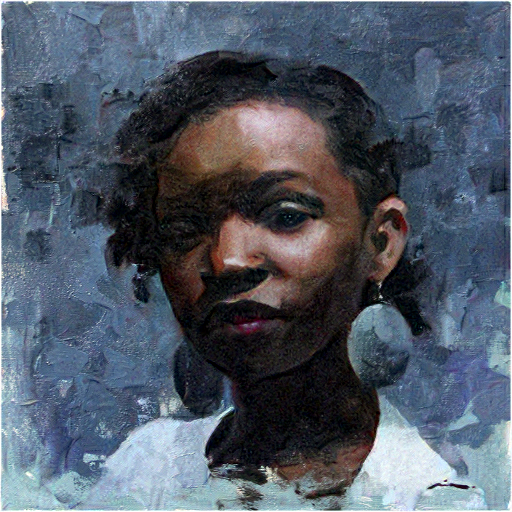
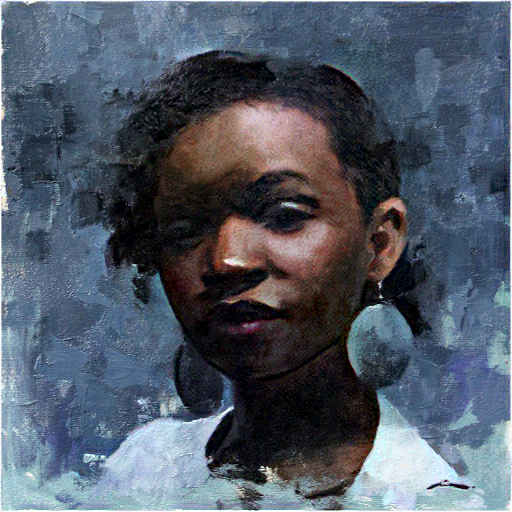
ai

diff --git a/transfer.py b/transfer.py
@@ -22,13 +22,13 @@ parser = argparse.ArgumentParser(description='Generate a new image by applying s
 add_arg = parser.add_argument
 
 add_arg('--content',        default=None, type=str,         help='Content image path as optimization target.')
-add_arg('--content-weight', default=10.0, type=float,       help='Weight of content relative to style.')
+add_arg('--content-weight', default=0.0001, type=float,       help='Weight of content relative to style.')
 add_arg('--content-layers', default='block4_conv2', type=str,        help='The layer with which to match content.')
 add_arg('--style',          default=None, type=str,         help='Style image path to extract patches.')
-add_arg('--style-weight',   default=100.0, type=float,       help='Weight of style relative to content.')
+add_arg('--style-weight',   default=50.0, type=float,       help='Weight of style relative to content.')
 add_arg('--style-layers',   default='block2_conv2,block3_conv2,block4_conv2', type=str,    help='The layers to match style patches.')
 add_arg('--semantic-ext',   default='_sem.png', type=str,   help='File extension for the semantic maps.')
-add_arg('--semantic-weight', default=1000000.0, type=float,      help='Global weight of semantics vs. features.')
+add_arg('--semantic-weight', default=500000.0, type=float,      help='Global weight of semantics vs. features.')
 add_arg('--output',         default='output.png', type=str, help='Output image path to save once done.')
 add_arg('--output-size',    default='512,512', type=str,         help='Size of the output image, e.g. 512x512.')
 add_arg('--phases',         default=3, type=int,            help='Number of image scales to process in phases.')
@@ -433,13 +433,13 @@ def style_content_loss(outputs,style_targets,style_map_targets,content_targets,c
     style_loss *= args.style_weight / num_style_layers
 
     tf.print("style_loss:",style_loss)
-    # content_loss = tf.add_n([tf.reduce_mean((content_outputs[name]-content_targets[name])**2) 
-                             # for name in content_outputs.keys()])
+    content_loss = tf.add_n([tf.reduce_mean((content_outputs[name]-content_targets[name])**2) 
+                             for name in content_outputs.keys()])
 
 
     # print("content_outputs:{}".format(content_outputs.keys()))
     # print("content_targets:{}".format(content_targets.keys()))
-    content_loss = tf.add_n([CX_loss_helper(content_targets[name],content_outputs[name],float(0.1)) for name in content_outputs.keys()])
+    # content_loss = tf.add_n([CX_loss_helper(content_targets[name],content_outputs[name],float(0.1)) for name in content_outputs.keys()])
     content_loss *= args.content_weight / num_content_layers
     tf.print("content_loss:",content_loss)
 
@@ -506,8 +506,8 @@ def run(content_path,style_path):
     # outputImage_height= outputSize[0]
     # outputImage_wight = outputSize[1]
 
-    # image = tf.compat.v1.get_variable("outputImage",shape=([1,content_image.shape[1],content_image.shape[2],3]),dtype=tf.float64,initializer=tf.random_normal_initializer(mean=0,stddev=1)) #
-    image = tf.Variable(content_image)
+    image = tf.compat.v1.get_variable("outputImage",shape=([1,content_image.shape[1],content_image.shape[2],3]),dtype=tf.float64,initializer=tf.random_normal_initializer(mean=0,stddev=1)) #
+    # image = tf.Variable(content_image)
     opt = tf.optimizers.Adam(learning_rate=1, beta_1=0.9, epsilon=1e-1)
 
     start = time.time()
